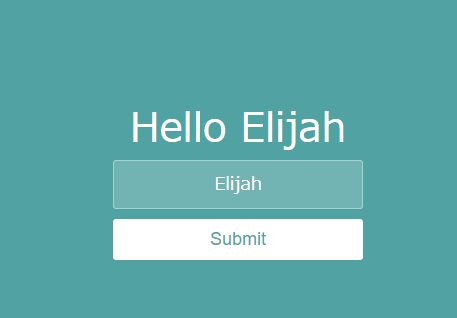
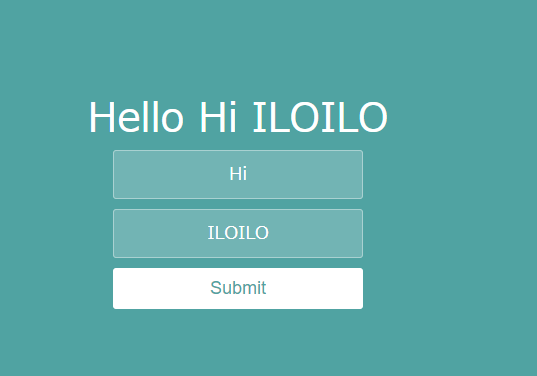
implemented complex state

Changed region(s): [[0.1532, 0.2547, 0.7965, 0.8491]]

diff --git a/src/components/App.jsx b/src/components/App.jsx
@@ -1,12 +1,45 @@
-import React from 'react';
+import React, { useState } from 'react';
 
 function App() {
+  // use state to initialize and update one and keep another value
+  const [fullName, setFullName] = useState({
+    fName: '',
+    lName: '',
+  });
+  function handleChange(event) {
+    const { value, name } = event.target;
+    setFullName((prevValue) => {
+      if (name === 'fName') {
+        return {
+          fName: value,
+          lName: prevValue.lName,
+        };
+      } else if (name === 'lName') {
+        return {
+          fName: prevValue.fName,
+          lName: value,
+        };
+      }
+    });
+  }
   return (
     <div className="container">
-      <h1>Hello</h1>
+      <h1>
+        Hello {fullName.fName} {fullName.lName}
+      </h1>
       <form>
-        <input name="fName" placeholder="First Name" />
-        <input name="lName" placeholder="Last Name" />
+        <input
+          onChange={handleChange}
+          name="fName"
+          placeholder="First Name"
+          value={fullName.fName}
+        />
+        <input
+          onChange={handleChange}
+          name="lName"
+          placeholder="Last Name"
+          value={fullName.lName}
+        />
         <button>Submit</button>
       </form>
     </div>
